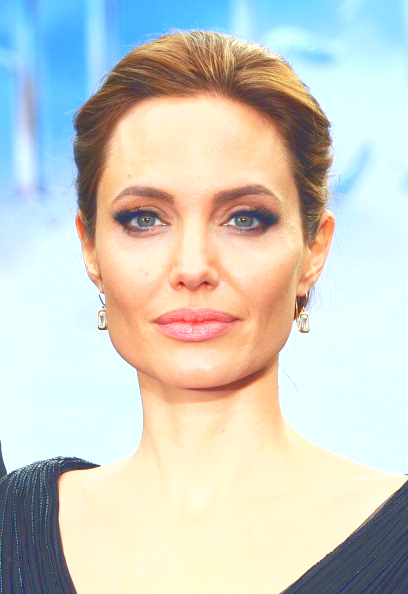
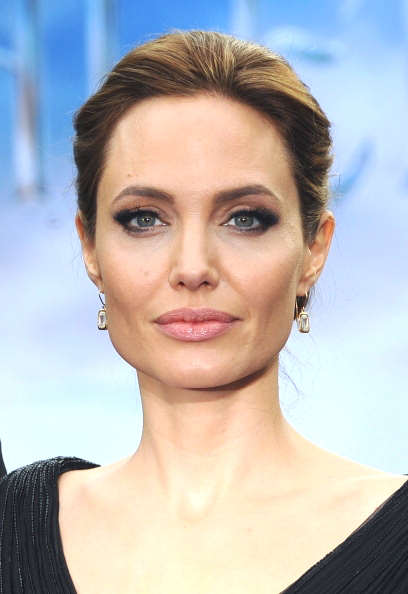
feat: add highlights

diff --git a/util/adjustment.ts b/util/adjustment.ts
@@ -581,7 +581,8 @@ static async changeAndSaveGamma(
 
 
 
-//not fixed yet
+//fixed
+// value param -100 to 100
 static async changeAndSaveWhites(
   inputImagePath: string,
   outputImagePath: string,
@@ -916,6 +917,43 @@ static async changeAndSaveShadow(
         let red = Math.pow(r / 255, 1 / normalizedvalue) * 255;
         let green = Math.pow(g / 255, 1 / normalizedvalue) * 255
         let blue = Math.pow(b / 255, 1 /normalizedvalue) * 255;
+        r = Math.min(255, Math.max(0, red));
+        g = Math.min(255, Math.max(0, green));
+        b = Math.min(255, Math.max(0, blue));
+        const newColor = Jimp.rgbaToInt(r, g, b, a);
+
+        image.setPixelColor(newColor, x, y);
+      }
+    }
+
+    await image.writeAsync(outputImagePath);
+    console.log(`Success`);
+  } catch (error) {
+    console.error('Error:', error);
+  }
+}
+
+static async changeAndSaveHighlight(
+  inputImagePath: string,
+  outputImagePath: string,
+  value: number,
+) {
+  if (value < -100 || value > 100) {
+    throw new Error('value value must be between -100 and 100');
+  }
+
+  try {
+    // Read the input image using Jimp
+    const image = await Jimp.read(inputImagePath);
+
+    for (let x = 0; x < image.bitmap.width; x++) {
+      for (let y = 0; y < image.bitmap.height; y++) {
+        const color = Jimp.intToRGBA(image.getPixelColor(x, y));
+
+        let { r, g, b, a } = color;
+        let red = r + (value / 5)
+        let green = g + (value / 5)
+        let blue = b + (value / 5)
         r = Math.min(255, Math.max(0, red));
         g = Math.min(255, Math.max(0, green));
         b = Math.min(255, Math.max(0, blue));

diff --git a/main.ts b/main.ts
@@ -1,4 +1,4 @@
 import Adjustment from "./util/adjustment.ts";
 
 
-Adjustment.changeAndSaveBlacks('img10.jpg', 'img10_edited.jpg', 50);
+Adjustment.changeAndSaveHighlight('img10.jpg', 'img10_edited.jpg', 100);
